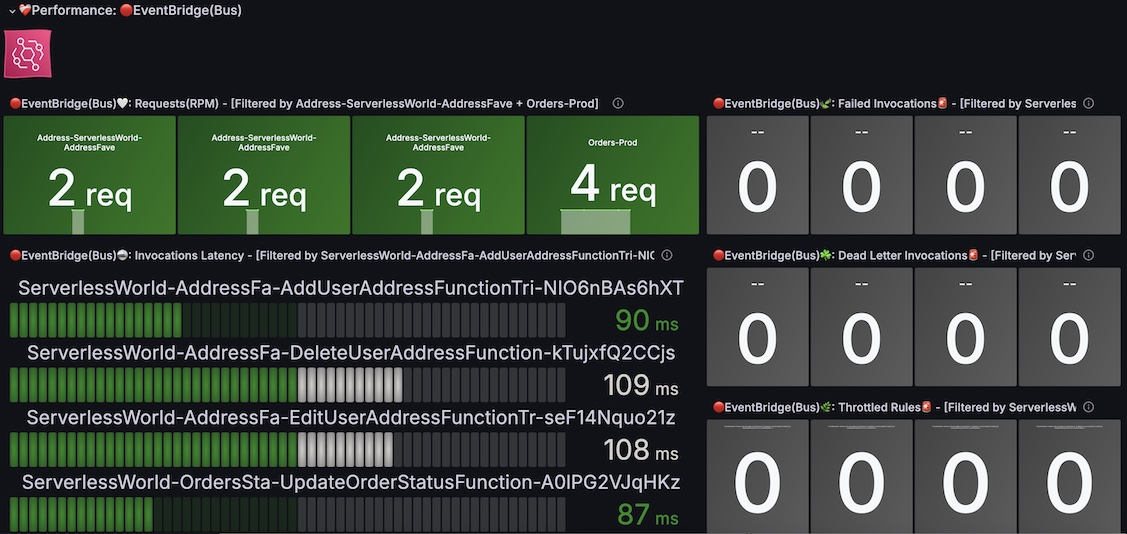
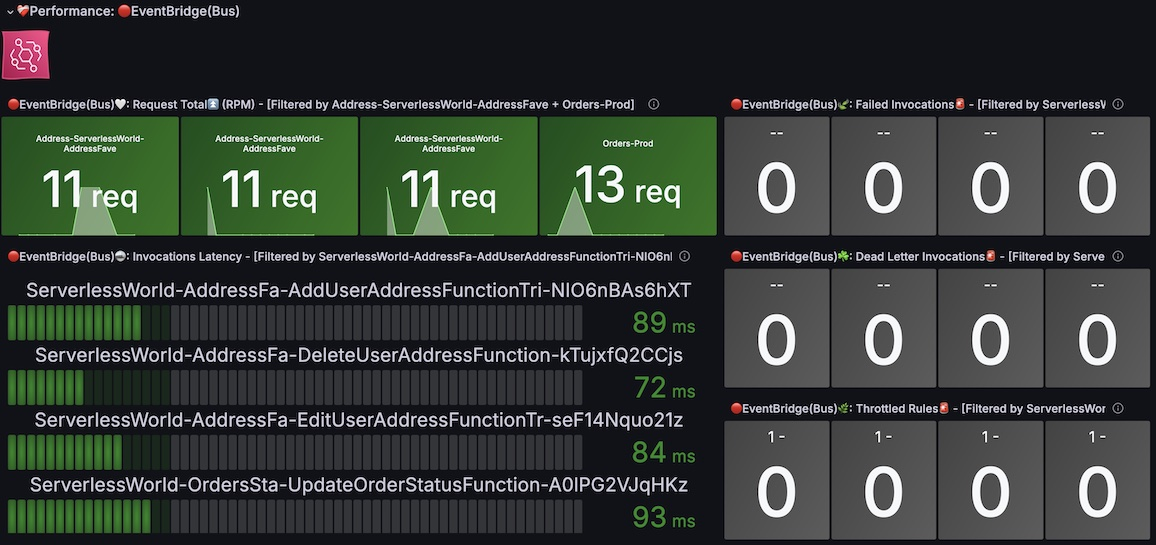
Bit modifications with README.

diff --git a/README.md b/README.md
@@ -38,6 +38,7 @@ This project provides A comprehensive observability solution for AWS environment
       - [✰ ☁Centralized Observability Metrics (🟠Lambda)](#-centralized-observability-metrics-lambda)
       - [✰ ☁Centralized Observability Metrics (🔵DynamoDB)](#-centralized-observability-metrics-dynamodb)
       - [✰ ☁Centralized Observability Metrics (🔴EventBridge(Bus))](#-centralized-observability-metrics-eventbridgebus)
+      - [✰ ☁Centralized Observability Metrics (🔴SQS)](#-centralized-observability-metrics-sqs)
       - [✰ ☁Centralized Observability Metrics (🔴Cognito)](#-centralized-observability-metrics-cognito)
       - [✰ ☁Centralized Observability Metrics (🔴CloudWatch Logs)](#-centralized-observability-metrics-cloudwatch-logs)
     - [🚀AWS Serverless Observability Monitoring👀](#aws-serverless-observability-monitoring-1)
@@ -104,11 +105,12 @@ Our goal is to empower companies and developers with high-performance, cost-effi
 
 |✅ Features|[☀**Grafana's download site**](https://grafana.com/grafana/dashboards/21933-aws-serverless-overview/) |
 |---|---|
-|🔴**API Gateway Performance Monitoring:**  |- **Request Rate**: Track real-time request rates (requests per second) for your API Gateway endpoints to understand traffic patterns and optimize scaling.<br>- **Longest Running API Requests**: Identify the top 25 longest-running API requests, helping you address high response times.<br>- **Error Monitoring**: Analyze the API paths with the most 4xx and 5xx errors. Easily view HTTP methods and IP addresses for quick troubleshooting.<br>- **Popular API Paths**: Gain insights into the most frequently hit API paths, helping optimize performance and resource allocation.|
-|🟠**AWS Lambda Performance Insights:**   |- **Request Rate**: Monitor the rate of Lambda function invocations, both synchronous and asynchronous, to understand traffic loads and adjust scaling strategies.<br>- **Concurrent Executions**: Observe real-time concurrency for Lambda functions to manage scaling effectively.<br>- **Invocation Metrics**: View detailed logs of Lambda invocations, including request IDs, trace information, and correlation IDs for deeper insights.<br>- **Duration and Latency Analysis**: Analyze average and maximum execution times for each Lambda function to identify performance bottlenecks.<br>- **Error and Throttle Tracking**: Track errors and throttled invocations, ensuring smoother operations and faster troubleshooting.|
+|🔴**API Gateway Performance Monitoring:**  |- **Request Total** (RPM): Monitor total API requests with counts for each endpoint to see traffic trends and request patterns.<br>- **Response Time** (Max): Analyze maximum response times to identify potential bottlenecks in API performance.<br>- **Integration Response Time**: Track time taken to integrate with back-end services, helping diagnose slow integrations.<br>- **4xx and 5xx Error Analysis**: View paths with the highest errors, along with HTTP methods and IP addresses, for effective troubleshooting.<br>- **Most Popular API Paths**: Highlight frequently accessed API paths to assist in optimizing performance and resource allocation.|
+|🟠**AWS Lambda Performance Insights:**  |- **Request Total (RPM)**: Track Lambda invocations per function(synchronous and asynchronous) to gauge usage and monitor spikes.<br>- <mark>**Duration Metrics with Percentiles**</mark>: View average and maximum execution durations, with percentiles (average, p75, p90, p95, p99) for deeper insights into response variability. This help us identify <mark>extreme outliers, which's the worst customer experiences.</mark><br>- <mark>**Concurrency Metrics**</mark>: Observe concurrent executions to ensure Lambda scaling aligns with demand.<br>- **Error and Throttle Tracking**: Track errors and throttled invocations, ensuring smoother operations and faster troubleshooting.|
 |🔵**DynamoDB Performance Monitoring:**   |- **Request Latency**: Track successful request latencies for both read and write operations to optimize DynamoDB performance.<br>- **Capacity Utilization**: Monitor consumed capacity units for reads and writes to ensure you stay within provisioned limits and avoid throttling.<br>- **Error Tracking**: Watch for system errors like `ConditionalCheckFailedRequests` to ensure data consistency and transactional integrity.<br>- **Throttle Events**: Stay informed about any throttled requests and adjust provisioned capacity to maintain performance.|
-|🔴**EventBridge Monitoring:**   |- **Event Invocation Latency**: Track the latency of event invocations through EventBridge to ensure timely processing of event-driven workflows.<br>- **Failed Invocations and Dead Letter Queues**: Monitor failed invocations and Dead Letter Queues for faster recovery from failed events.<br>- **Throttle Events**: Stay aware of throttled EventBridge rules and make adjustments to avoid delays or message loss.|
-|🔴**AWS Cognito Monitoring**|- **Sign-in and Sign-up Success Tracking**: View real-time sign-in and sign-up successes to monitor authentication performance.<br>- **Challenge Requests**: Track the number of authentication challenges triggered in Cognito, helping monitor suspicious or failed attempts.|
+|🔴**EventBridge Performance Monitoring:**   |- **Request Total** (RPM): Track total EventBridge requests to monitor event flow across services.<br>- **Invocation Latency**: View latency metrics for each event-driven invocation, helping optimize event handling speed.<br>- **Dead Letter Invocations and Throttled Rules**: Monitor failed invocations and throttling to improve event reliability.|
+|🔴**SQS Performance Monitoring:** |- **Requests** (Sent/Received RPM): Track messages sent and received by SQS queues to understand queue activity.<br>- **Age of Oldest Message**: Monitor the oldest message age in the queue to ensure timely processing.<br>- **Delayed Messages**: View delayed messages to optimize queue configuration and performance.|
+|🔴**Cognito Performance Monitoring**|- **Sign-in and Sign-up Success Tracking**: View real-time sign-in and sign-up successes to monitor authentication performance.<br>- **Challenge Requests**: Track the number of authentication challenges triggered in Cognito, helping monitor suspicious or failed attempts.|
 |🔴**CloudWatch Logs Insights:** |- **Incoming Log Events and Bytes**: Visualize the rate of log events and data volume (bytes/sec) from AWS services such as API Gateway, Lambda, and DynamoDB.<br>- **Error and Throttle Analysis**: Monitor delivery errors, log forwarding, and throttling for effective troubleshooting of log data flow.<br>- **Real-Time Monitoring**: Ensure smooth, real-time logging for various services to stay ahead of potential performance issues.|
 
 ---
@@ -218,7 +220,9 @@ Here are some examples of the dashboards you can create with this project. ([**A
 
 #### ✰ ☁Centralized Observability Metrics (🟠Lambda)
 
-![Centralized Observability Metrics](./assets/SS-Obs-Perf-Lambda.jpg)
+|||
+|---|---|
+|![Centralized Observability Metrics](./assets/SS-Obs-Perf-Lambda.jpg)|![Centralized Observability Metrics](./assets/SS-Obs-Perf-Lambda-percentailes.jpg)|
 
 ---
 
@@ -235,6 +239,14 @@ Here are some examples of the dashboards you can create with this project. ([**A
 #### ✰ ☁Centralized Observability Metrics (🔴EventBridge(Bus))
 
 ![Centralized Observability Metrics](./assets/SS-Obs-Perf-EventBridge.jpg)
+
+---
+
+<br>
+
+#### ✰ ☁Centralized Observability Metrics (🔴SQS)
+
+![Centralized Observability Metrics](./assets/SS-Obs-Perf-SQS.jpg)
 
 ---
 
